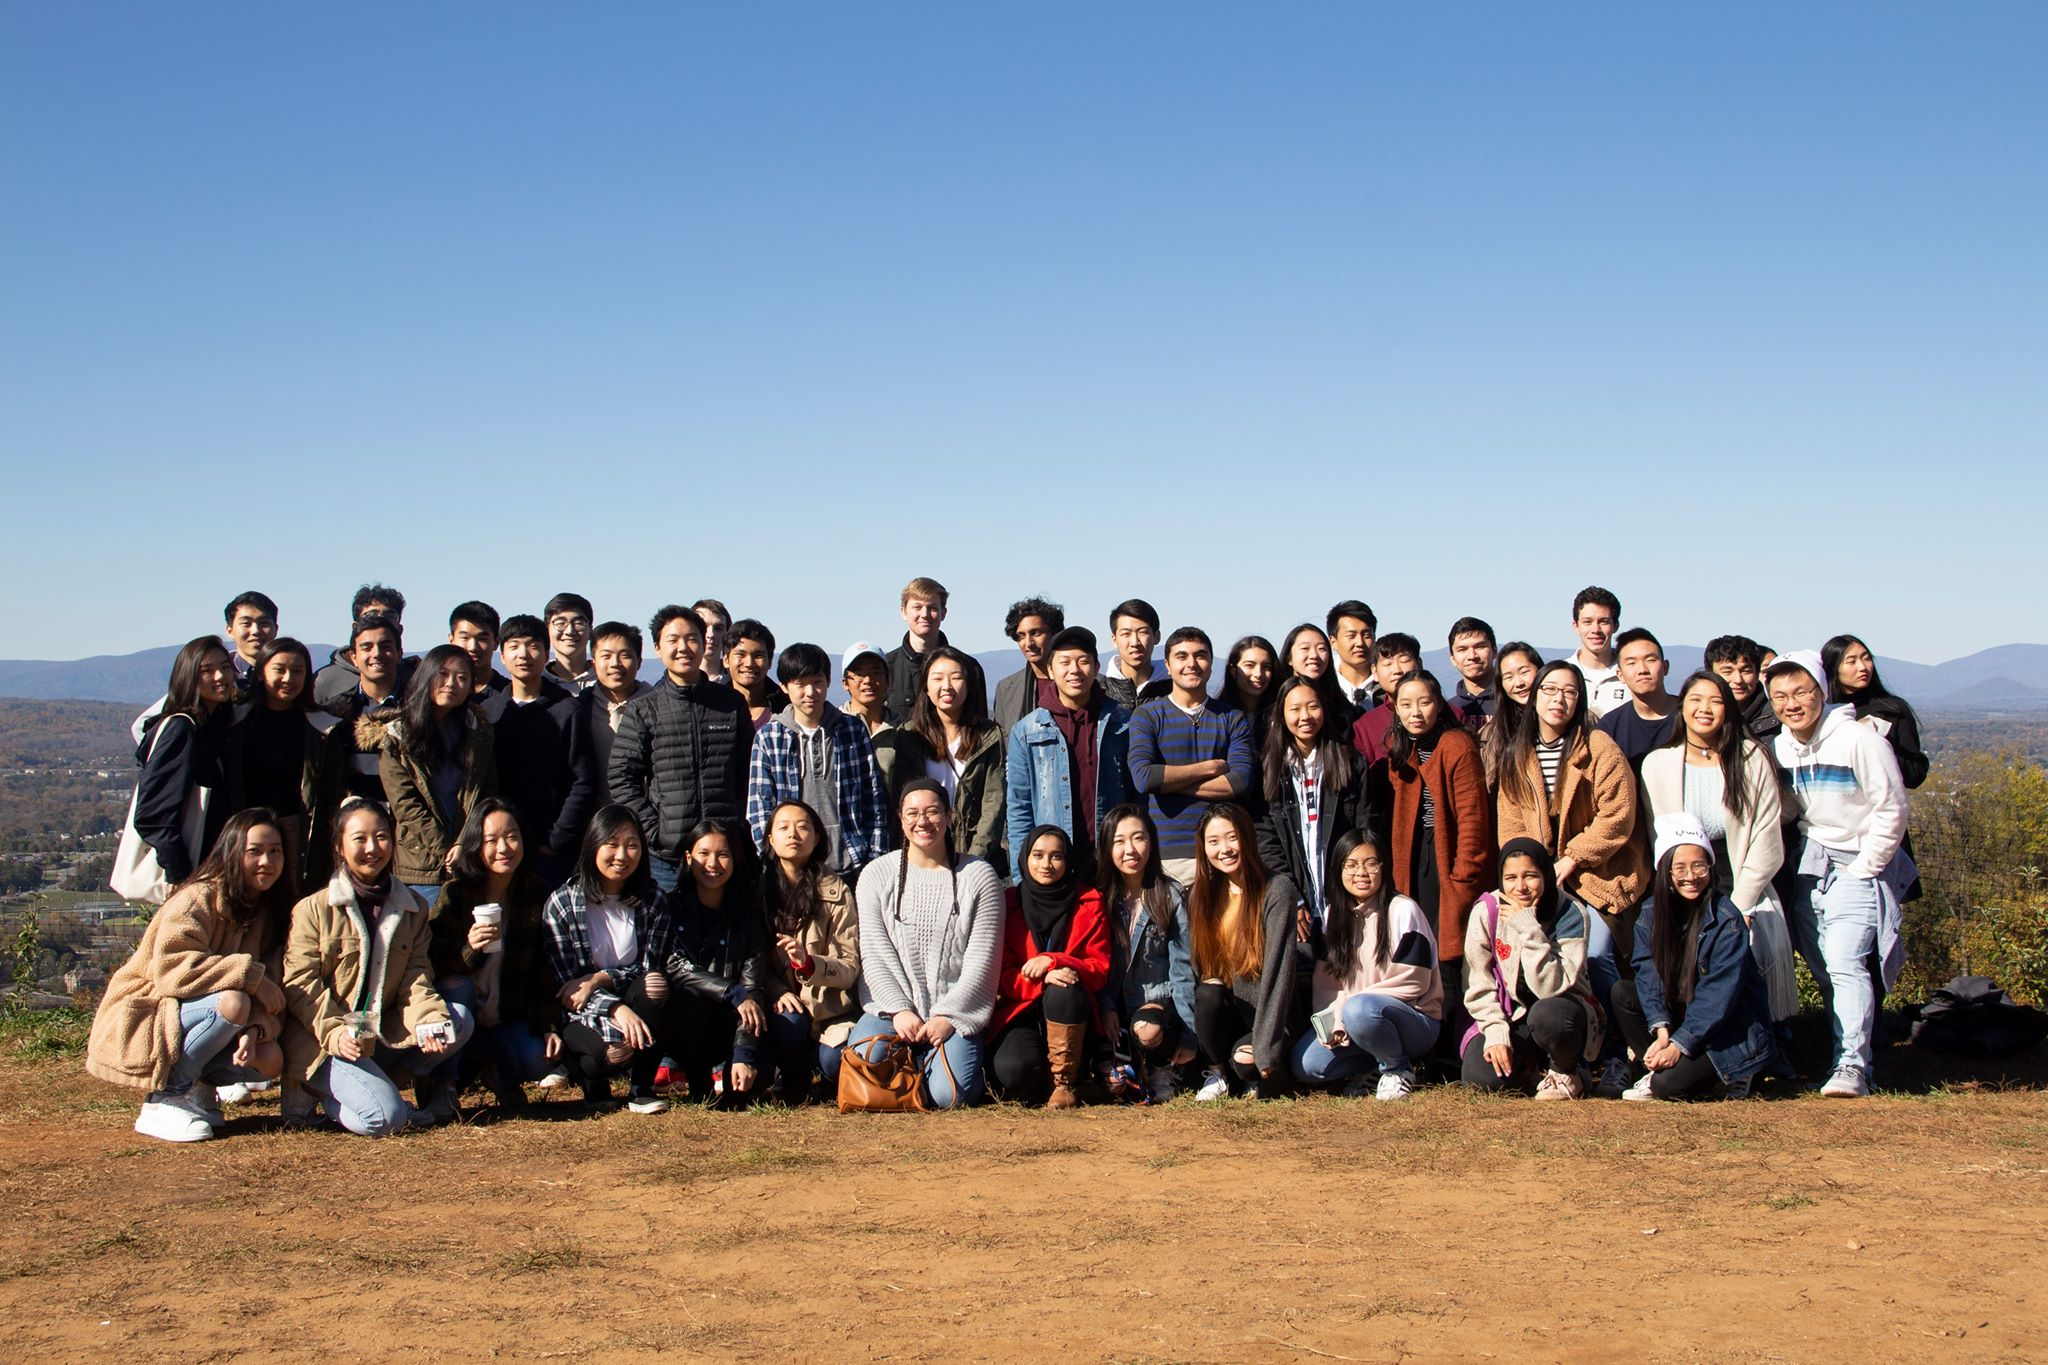
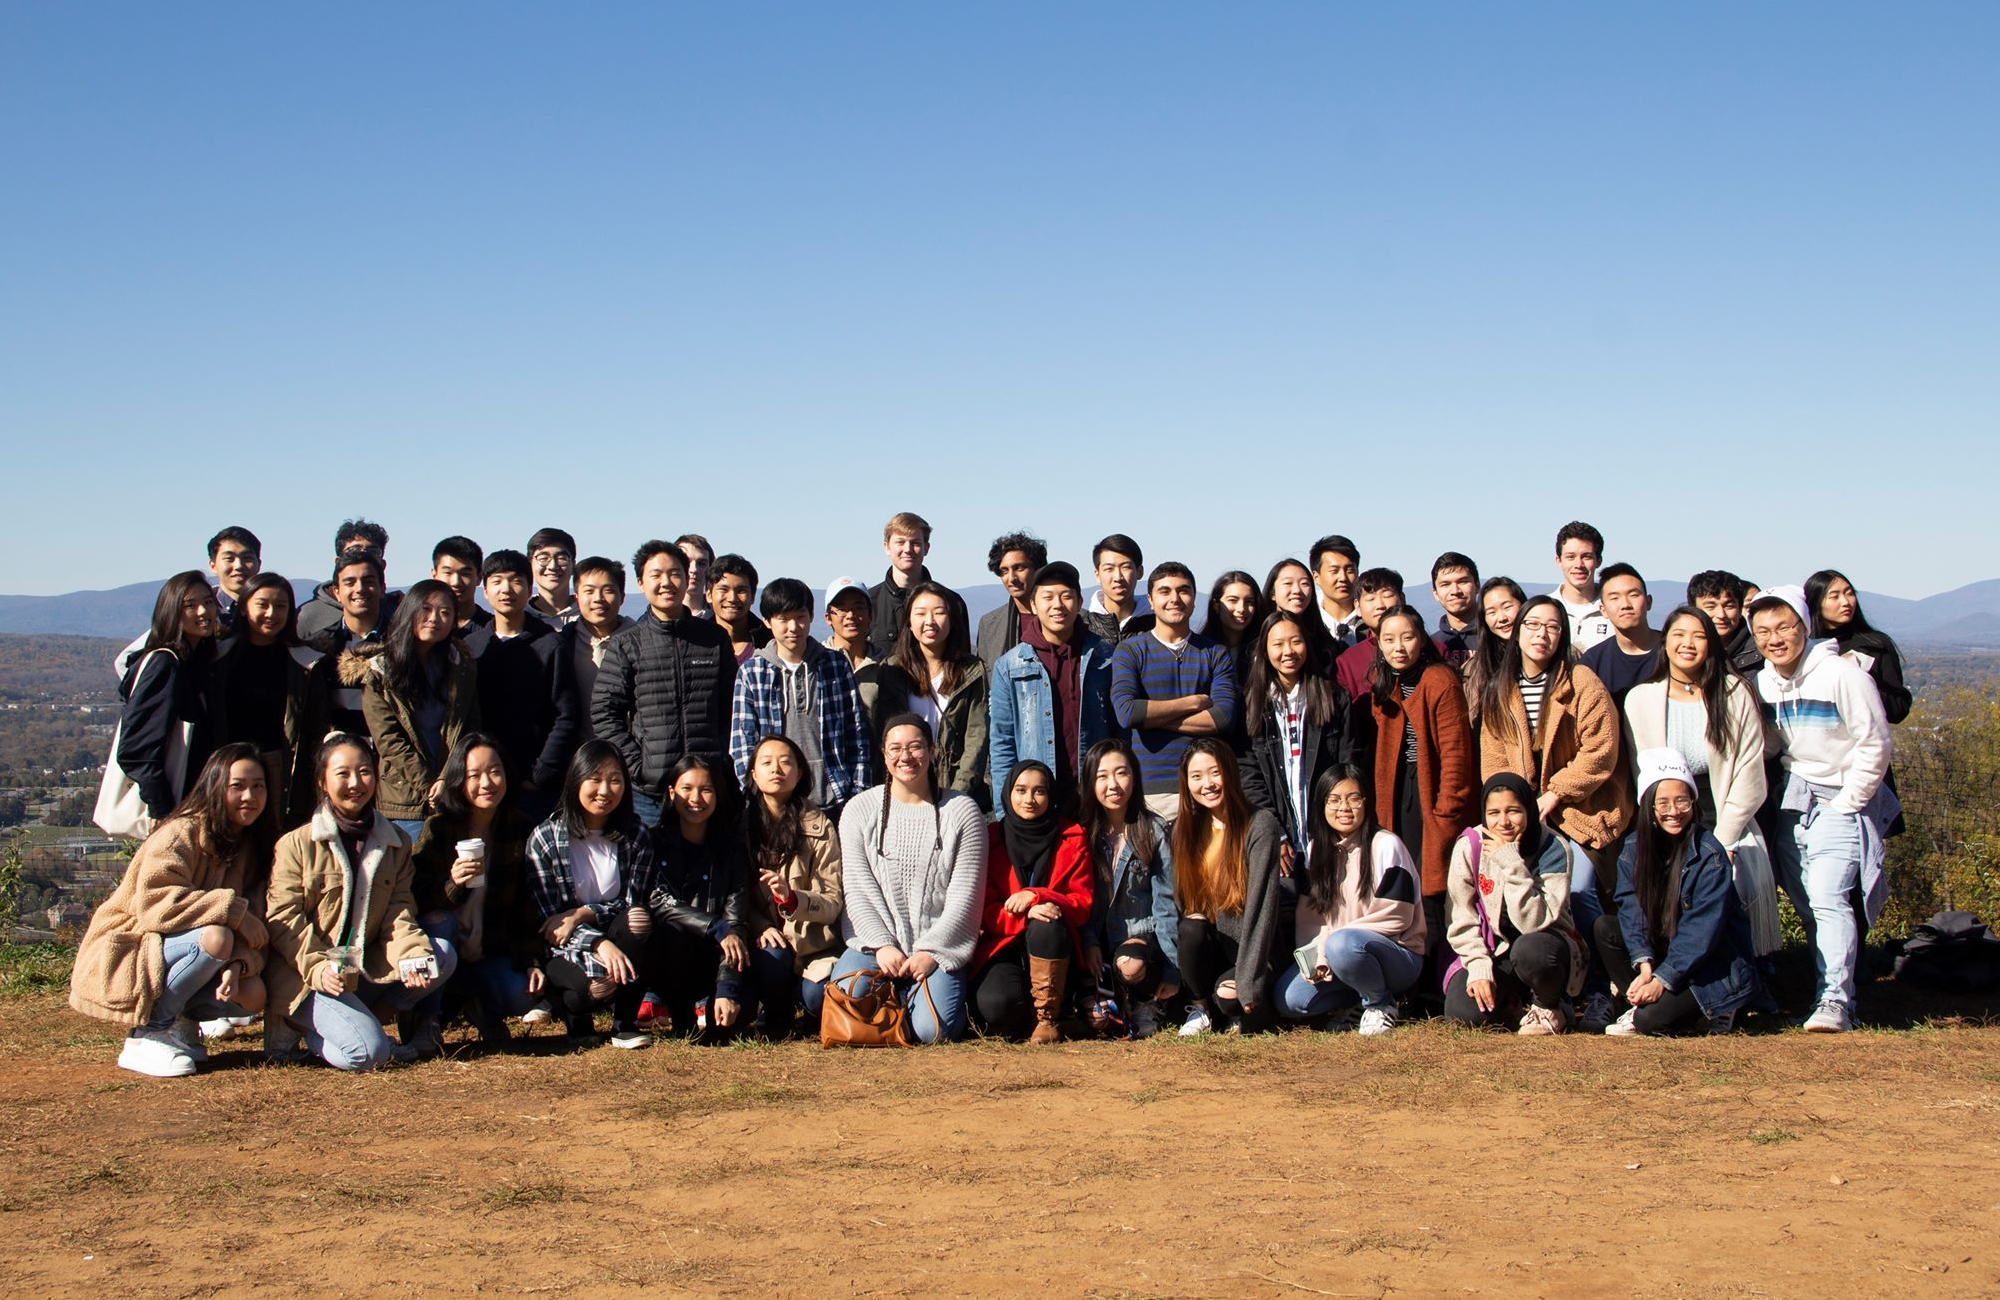
carters mountain

diff --git a/src/components/HeroImage.vue b/src/components/HeroImage.vue
@@ -10,7 +10,7 @@
 
 <style>
     .hero-image{
-        background-image: url('~@/assets/carters.jpg');
+        background-image: url('~@/assets/carters.png');
         background-position: -100px -100px;
         background-size: 120%;
         background-repeat: no-repeat;
